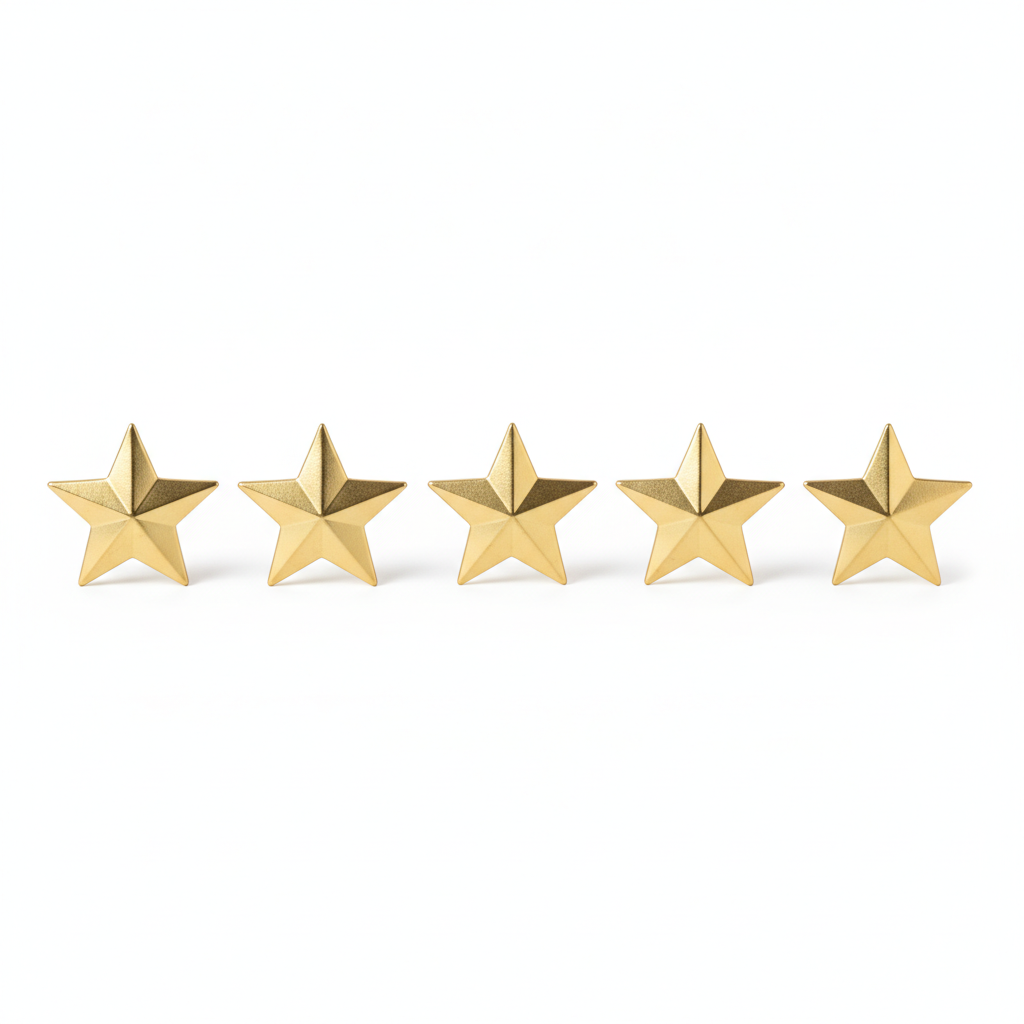
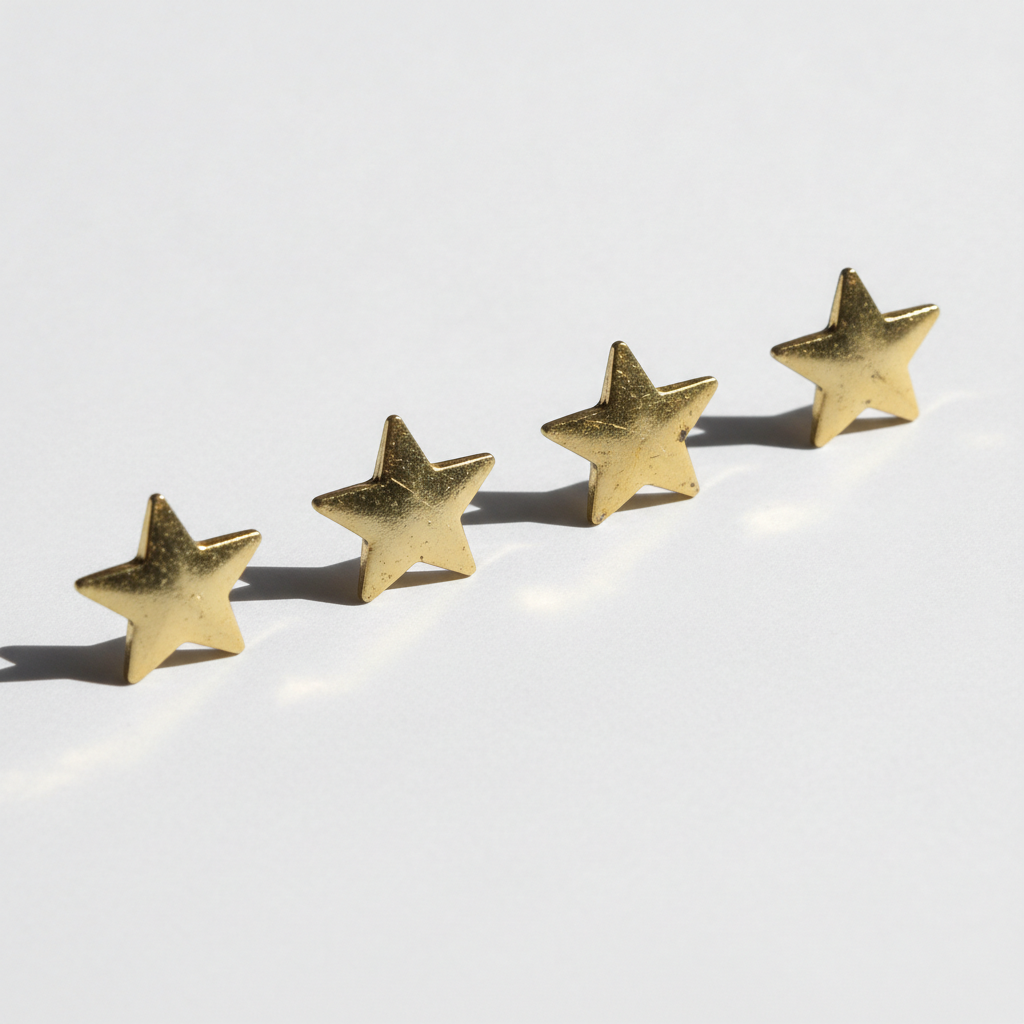
Audit du kit realiste : 15/25 valides, 10 en correction + 3 pieges documentes
Audit photo (5 lecteurs) : 15 photos validees du premier coup, contre un taux
d'echec bien plus eleve en style dessine. Les 10 recalees se regenerent avec
les prompts corriges rediges par l'audit (regen_realiste_v2.py).

Trois pieges de la photo generee, documentes dans stories.md :
- les CLAVIERS : l'IA invente les chiffres (4-8-9 au lieu de 7-8-9, touches
  manquantes) -> 'touches vues en biais, aucun chiffre lisible'
- le RENDU 3D qui revient -> exiger les imperfections (grain, noeuds du bois,
  micro-rayures, plis, ombre de contact)
- l'ANATOMIE des mains en gros plan -> cadrer plus large + 'cinq doigts,
  ongles visibles, doigts bien separes'

Claude-Session: https://claude.ai/code/session_01ERzdQHEAdE595RXjbG9oKy

diff --git a/shorts/regen_realiste_v2.py b/shorts/regen_realiste_v2.py
@@ -1,0 +1,41 @@
+#!/usr/bin/env python3
+# -*- coding: utf-8 -*-
+"""
+CORRECTION du kit realiste : regenere les photos recalees par l'audit, en
+reutilisant DIRECTEMENT le prompt corrige que l'audit a redige pour chacune
+(shorts/audit-realiste.json).
+
+Les trois pieges identifies sur les photos :
+  1. les CLAVIERS (serrure a code, calculatrice) : l'IA invente les chiffres
+     (4-8-9 au lieu de 7-8-9, deux touches 0, chiffres manquants). Parade :
+     "touches vues en biais, aucun chiffre lisible" ou cadrage qui les exclut.
+  2. le rendu 3D qui revient (bois trop lisse, bulles figees, tissu sans
+     grain). Parade : exiger les IMPERFECTIONS (grain, micro-rayures, noeuds
+     du bois, plis, poussiere, reflets irreguliers).
+  3. l'ANATOMIE des mains en gros plan. Parade : cadrer plus large et exiger
+     "cinq doigts, ongles visibles, doigts bien separes".
+"""
+import importlib.util, json, pathlib, sys, time
+
+ROOT = pathlib.Path(__file__).resolve().parent
+spec = importlib.util.spec_from_file_location("g", ROOT / "gen_assets_shorts.py")
+g = importlib.util.module_from_spec(spec); spec.loader.exec_module(g)
+
+audit = json.loads((ROOT / "audit-realiste.json").read_text(encoding="utf-8"))
+todo = {r["file"]: r["prompt_corrige"] for r in audit
+        if r["verdict"] == "refaire" and r.get("prompt_corrige")}
+
+cibles = [a for a in sys.argv[1:] if not a.startswith("-")]
+if cibles:
+    todo = {k: v for k, v in todo.items() if k in cibles}
+
+fails = []
+for name, prompt in todo.items():
+    try:
+        g.generate(name, prompt, "1:1")
+    except Exception as e:
+        print(f"ECHEC {name}: {e}", flush=True)
+        fails.append(name)
+    time.sleep(3)
+print(f"\nTermine. {len(todo) - len(fails)}/{len(todo)} regeneres" +
+      (f" ; echecs : {', '.join(fails)}" if fails else ""), flush=True)

diff --git a/stories/stories.md b/stories/stories.md
@@ -618,6 +618,20 @@ plan, calendrier mural annoté.
 plutôt que « aucun texte » — une page blanche fait vide, un texte flou est
 crédible et évite les fautes.
 
+**Les 3 pièges de la photo générée** (relevés par l'audit du 03/08) :
+1. **Les claviers.** Serrure à code, calculatrice : l'IA invente les chiffres
+   (4-8-9 au lieu de 7-8-9, deux touches 0, le 2 et le 5 qui disparaissent).
+   Parade : « touches vues en biais, aucun chiffre lisible », ou cadrer de
+   façon à exclure le pavé.
+2. **Le rendu 3D qui revient.** Bois trop lisse, bulles figées, tissu sans
+   grain, aucune ombre de contact. Parade : exiger les IMPERFECTIONS — grain
+   du bois et nœuds, micro-rayures, plis naturels, poussière, reflets
+   irréguliers, ombre portée franche.
+3. **L'anatomie des mains en gros plan.** Doigts fusionnés, moignon sans
+   ongle, doigts qui grandissent vers l'auriculaire. Parade : cadrer plus
+   large (avant-bras et buste) et exiger « cinq doigts, ongles visibles,
+   doigts bien séparés ».
+
 ### 🚫 RÈGLE ANTI-IA (ordre de Martin, 03/08/2026) : « je ne veux pas que ça fasse IA »
 
 Apprentissage majeur du 1er lot, à appliquer à TOUT asset de montage :
